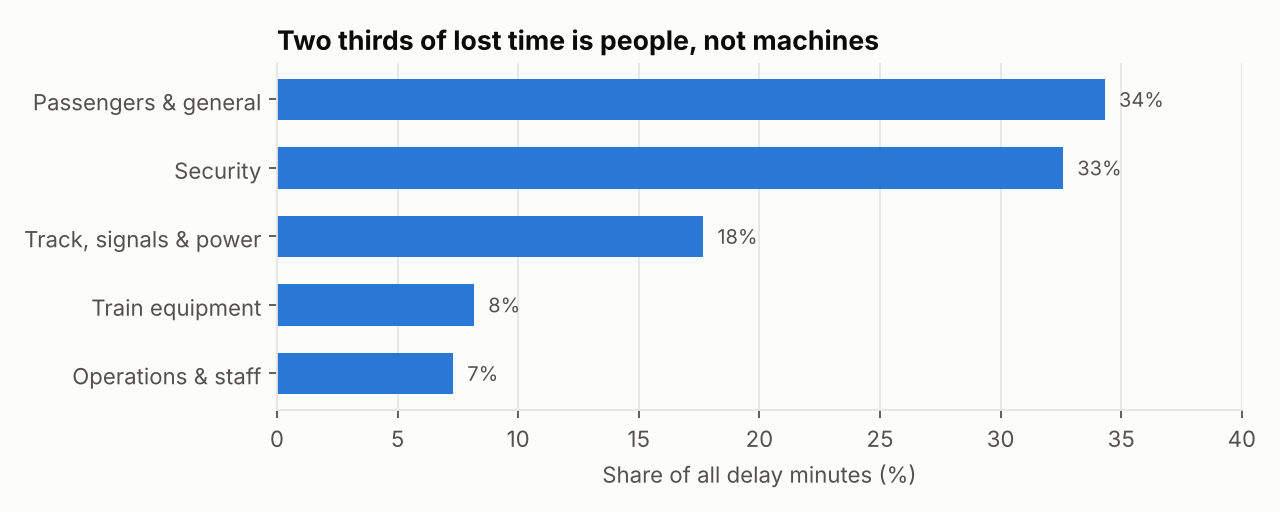
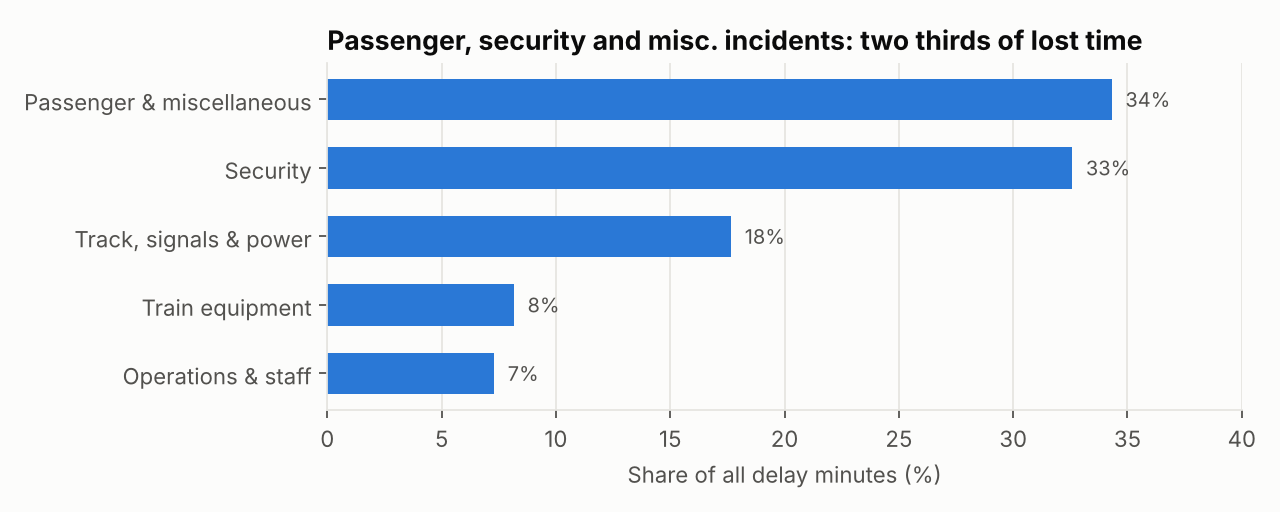
Fix: line-wide 'BLOOR-DANFORTH' incidents were mapped to Bloor-Yonge; clarify cause-group wording
Claude-Session: https://claude.ai/code/session_01JJnQ7wriuigsoabzSnwULo

diff --git a/src/clean.py b/src/clean.py
@@ -66,7 +66,7 @@ PREFIXES = sorted(STATIONS, key=len, reverse=True)
 
 CAUSE_GROUPS = {
     "EU": "Train equipment", "ER": "Train equipment",
-    "MU": "Passengers & general", "MR": "Passengers & general",
+    "MU": "Passenger & miscellaneous", "MR": "Passenger & miscellaneous",
     "PU": "Track, signals & power", "PR": "Track, signals & power",
     "SU": "Security", "SR": "Security",
     "TU": "Operations & staff", "TR": "Operations & staff",
@@ -85,7 +85,7 @@ def match_station(raw: str):
     s = norm_text(raw)
     if re.search(r"\b(YARD|CARHOUSE|HOSTLER|SHOP|BUILD UP|TRACK PLANT)\b", s):
         return None, "yard"
-    if s.startswith(("LINE ", "BLOOR DANFORTH", "YONGE UNIVERSITY", "YONGE-UNIVERSITY",
+    if s.startswith(("LINE ", "BLOOR DANFORTH", "BLOOR-DANFORTH", "YONGE UNIVERSITY", "YONGE-UNIVERSITY",
                      "TORONTO TRANSIT", "YU ", "BD ")):
         return None, "line-wide"
     for p in PREFIXES:

diff --git a/src/eda.py b/src/eda.py
@@ -71,7 +71,7 @@ def causes(dl):
         ax.text(v + 0.6, y, f"{v:.0f}%", va="center", color=INK2, fontsize=9)
     ax.set(xlabel="Share of all delay minutes (%)", xlim=(0, 40))
     ax.grid(axis="y", visible=False)
-    ax.set_title("Two thirds of lost time is people, not machines")
+    ax.set_title("Passenger, security and misc. incidents: two thirds of lost time")
     fig.tight_layout(); fig.savefig(FIG / "03_causes.png", dpi=160); plt.close(fig)
 
 

diff --git a/README.md b/README.md
@@ -14,7 +14,7 @@ This project uses every delay the TTC logged from January 2023 to September 2026
 
 - **Two daily peaks:** when service starts (6am weekdays, 8am Sundays) and the evening rush, 4-6pm, strongest Tuesday to Thursday.
 - **Bloor-Yonge loses the most time** (about 12,000 delay minutes), followed by Kennedy, St George and Kipling: interchange and end-of-line stations.
-- **Two thirds of lost time is caused by people, not machines:** passenger incidents (34%) and security incidents (33%). Track, signals and power are 18%.
+- **Two thirds of lost time comes from passenger, security and miscellaneous incidents** (34% and 33%), such as ill customers, disorderly passengers and people at track level. Track, signals and power are 18%; train equipment only 8%. (The TTC's "miscellaneous" codes are mostly passenger incidents but include some others, such as fires at track level.)
 - **Weather matters less than expected:** rain barely changes the delay rate (+4%); heavy snow (+37%) and deep cold (+31%) raise it, though heavy-snow hours are rare (41 hours).
 
 More charts are in [`figures/`](figures/).
@@ -57,6 +57,7 @@ The raw files needed real work before analysis:
 |---|---|
 | Station is free text cut at 22 characters: 1,687 spellings of about 75 stations | Longest-prefix matching to a list of real stations; 96% of incidents matched |
 | Stations renamed mid-period: Dundas to TMU (2024), Eglinton West to Cedarvale (2025) | Mapped old names to current ones |
+| Line-wide incidents written as a station ("BLOOR-DANFORTH LINE 2") | Flagged as line-wide, not assigned to a station |
 | Line field has 40+ spellings ("YU/BD", "YU / BD", "999") | Rule-based normalisation to Line 1, 2, 3, 4 or multi-line |
 | 65% of incidents have a 0-minute delay | Treated as logged events, not delays |
 | Planned closures logged as one 6+ hour "delay" | Flagged and excluded from delay statistics |
